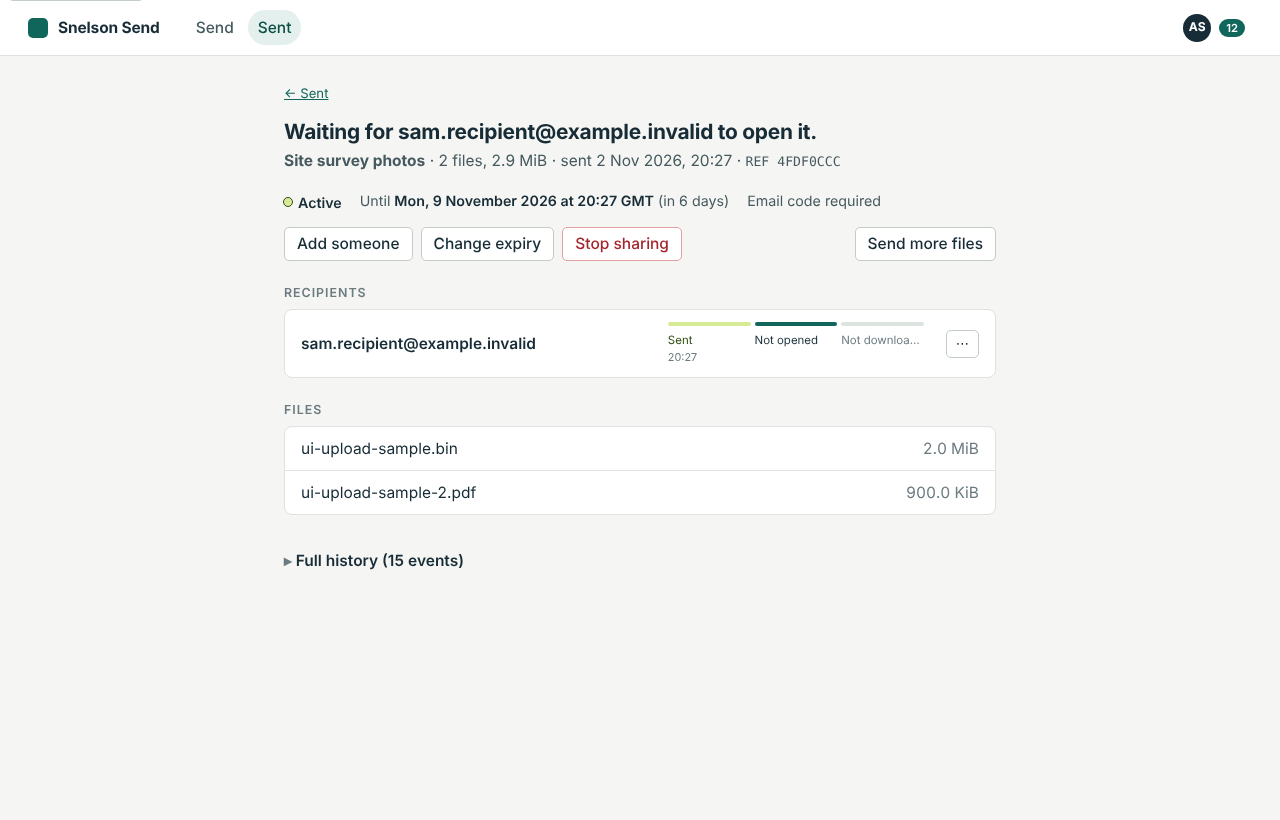
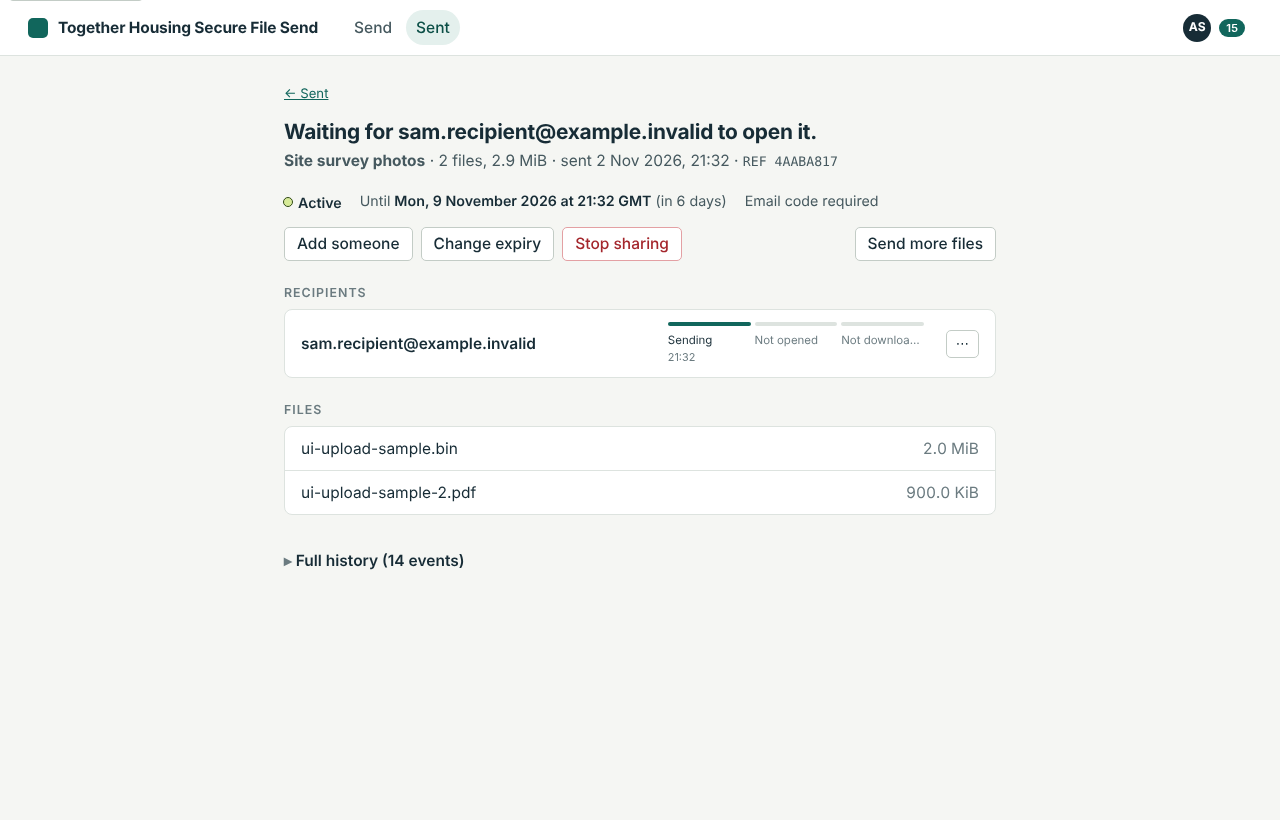
Brand as Together Housing Secure File Send by default
Product and organisation name defaults, page title, email From default, docs and
deployment comments. Long brand names truncate in the top strip on small screens.

Claude-Session: https://claude.ai/code/session_01Ktb1JASNB7QAetbqvrwUYB

diff --git a/packages/shared/src/policy.ts b/packages/shared/src/policy.ts
@@ -89,8 +89,8 @@ export const AuditPolicySchema = z.object({
 export type AuditPolicy = z.infer<typeof AuditPolicySchema>;
 
 export const BrandingSchema = z.object({
-  productName: z.string().min(1).max(60).default('Snelson Send'),
-  organisationName: z.string().min(1).max(120).default('Snelsonserver Ltd'),
+  productName: z.string().min(1).max(60).default('Together Housing Secure File Send'),
+  organisationName: z.string().min(1).max(120).default('Together Housing'),
   supportEmail: z.string().email().nullable().default(null),
   supportUrl: z.string().url().nullable().default(null),
   accentColour: z

diff --git a/apps/web/src/components/Shell.tsx b/apps/web/src/components/Shell.tsx
@@ -25,7 +25,7 @@ export function Shell({ width = 'narrow' }: { width?: 'narrow' | 'wide' }) {
       <header className="strip">
         <NavLink to={canSend ? '/' : '/activity'} className="strip-brand">
           {options?.logoDataUrl ? <img src={options.logoDataUrl} alt="" /> : <span className="mark" aria-hidden="true" />}
-          <span>{options?.productName ?? 'Snelson Send'}</span>
+          <span>{options?.productName ?? 'Together Housing Secure File Send'}</span>
         </NavLink>
         <nav className="strip-nav" aria-label="Main">
           {canSend && <NavLink to="/" end>Send</NavLink>}

diff --git a/apps/api/src/config.ts b/apps/api/src/config.ts
@@ -21,7 +21,7 @@ const schema = z.object({
   /** Must match clamd.conf StreamMaxLength / MaxFileSize. Files above this are reported as not scanned. */
   CLAMD_MAX_STREAM_BYTES: z.coerce.number().int().default(4 * 1024 * 1024 * 1024 - 1),
   SMTP_URL: z.string().optional(),
-  SMTP_FROM: z.string().default('Snelson Send <send@localhost>'),
+  SMTP_FROM: z.string().default('Together Housing Secure File Send <send@localhost>'),
   MAIL_TRANSPORT: z.enum(['smtp', 'file', 'memory']).default('smtp'),
   MAIL_FILE_DIR: z.string().optional(),
   TRUST_PROXY: bool.default(false),

diff --git a/apps/web/src/pages/Login.tsx b/apps/web/src/pages/Login.tsx
@@ -24,7 +24,7 @@ export function AuthFrame({ children, title }: { children: React.ReactNode; titl
       <div className="auth-card">
         <div className="auth-brand">
           {options?.logoDataUrl ? <img src={options.logoDataUrl} alt="" /> : <span className="mark" aria-hidden="true" />}
-          <span>{options?.productName ?? 'Snelson Send'}</span>
+          <span>{options?.productName ?? 'Together Housing Secure File Send'}</span>
         </div>
         {title && <h1>{title}</h1>}
         {children}

diff --git a/apps/web/index.html b/apps/web/index.html
@@ -5,7 +5,7 @@
     <meta name="viewport" content="width=device-width, initial-scale=1" />
     <meta name="referrer" content="no-referrer" />
     <meta name="color-scheme" content="light" />
-    <title>Snelson Send</title>
+    <title>Together Housing Secure File Send</title>
     <link rel="icon" href="/favicon.svg" type="image/svg+xml" />
   </head>
   <body>

diff --git a/apps/web/src/styles/global.css b/apps/web/src/styles/global.css
@@ -1624,6 +1624,12 @@ dialog.dialog::backdrop {
   .strip-nav .lbl-long {
     display: none;
   }
+  .strip-brand span {
+    max-width: 38vw;
+    white-space: nowrap;
+    overflow: hidden;
+    text-overflow: ellipsis;
+  }
   .content {
     padding: 16px 14px 48px;
   }

diff --git a/docs/ENTRA-SETUP.md b/docs/ENTRA-SETUP.md
@@ -1,17 +1,17 @@
 # Microsoft Entra ID (OpenID Connect) setup
 
-Snelson Send uses the authorisation-code flow with PKCE, `state` and `nonce`, via `openid-client`
+Together Housing Secure File Send uses the authorisation-code flow with PKCE, `state` and `nonce`, via `openid-client`
 (`apps/api/src/auth/oidc.ts`). Issuer, audience (client id), tenant and allow lists are checked explicitly
 on every login in `validateClaims()`. Nothing is granted on the basis of an email domain.
 
 ## 1. App registration
 1. Entra admin centre → App registrations → **New registration**.
-   * Name: Snelson Send. Supported account types: **this organisational directory only** (single tenant).
+   * Name: Together Housing Secure File Send. Supported account types: **this organisational directory only** (single tenant).
    * Redirect URI (Web): `https://<PUBLIC_HOST>/api/auth/sso/callback` — must match `PUBLIC_URL` exactly.
 2. Certificates & secrets → **New client secret**. Copy the value now; it is only shown once. Set a reminder for its expiry.
 3. Token configuration → **Add groups claim** → Security groups → for ID tokens emit **Group ID**.
    Overage caveat: if a user is in more than 200 groups (150 for SAML) Entra omits the `groups` claim and
-   sets `_claim_names`/`_claim_sources` instead. Snelson Send does **not** follow the Graph overage link;
+   sets `_claim_names`/`_claim_sources` instead. Together Housing Secure File Send does **not** follow the Graph overage link;
    such users will be rejected as "not in the allow list" unless they are listed by object id, or you
    restrict the claim to "groups assigned to the application" (Enterprise application → Users and groups,
    then choose that option in Token configuration).
@@ -21,15 +21,15 @@ on every login in `validateClaims()`. Nothing is granted on the basis of an emai
 
 ## 2. Conditional Access (MFA)
 The application cannot prove that MFA happened unless the IdP says so. Create a Conditional Access policy
-targeting the Snelson Send enterprise application that **requires multifactor authentication** (or an
-authentication strength) for all assigned users. Then in Snelson Send → Administration → Identity &
+targeting the Together Housing Secure File Send enterprise application that **requires multifactor authentication** (or an
+authentication strength) for all assigned users. Then in Together Housing Secure File Send → Administration → Identity &
 access enable **Require `amr` to contain `mfa`** so logins whose ID token does not report MFA are
 rejected. Note: `amr` reporting depends on the IdP and the method; if your tenant uses phishing-resistant
 methods that report differently, verify the claim content in a test login before enabling the check.
 `acr_values` can be set if your tenant uses authentication context; otherwise leave it blank and rely on
 Conditional Access.
 
-## 3. Configure Snelson Send
+## 3. Configure Together Housing Secure File Send
 Administration → Identity & access (requires recent strong authentication and a reason; the change is audited):
 
 | Field | Value |

diff --git a/README.md b/README.md
@@ -1,11 +1,11 @@
-# Snelson Send
+# Together Housing Secure File Send
 
-Self-hosted, single-organisation large-file dispatch for Snelsonserver Ltd. Staff upload files,
+Self-hosted, single-organisation large-file dispatch for Together Housing. Staff upload files,
 address them to named recipients, and send invitations; recipients prove control of their mailbox
 with a one-time code before downloading. Content lives only on your server, is quarantined and
 scanned before release, and is verifiably deleted at expiry.
 
-"Snelson Send" is a configurable working name (Administration → Branding).
+The product name, organisation name, logo and accent colour are configurable in Administration → Branding; the defaults are "Together Housing Secure File Send" / "Together Housing".
 
 | | |
 |---|---|

diff --git a/docs/ARCHITECTURE.md b/docs/ARCHITECTURE.md
@@ -1,7 +1,7 @@
-# Snelson Send – architecture
+# Together Housing Secure File Send – architecture
 
-Working name: **Snelson Send** (configurable in Branding settings). Single-organisation,
-self-hosted large-file dispatch application for Snelsonserver Ltd.
+Product name: **Together Housing Secure File Send** (configurable in Branding settings). Single-organisation,
+self-hosted large-file dispatch application for Together Housing.
 
 ## 1. Stack and tradeoffs
 

diff --git a/docs/PRIVACY-DECISIONS.md b/docs/PRIVACY-DECISIONS.md
@@ -1,6 +1,6 @@
 # Privacy and data-protection decisions still required
 
-The application provides controls; it does not make Snelsonserver Ltd compliant with UK GDPR by itself.
+The application provides controls; it does not make Together Housing compliant with UK GDPR by itself.
 Decisions an accountable person must take and record:
 
 1. **Lawful basis and purpose** for processing recipient email addresses, sender identities, filenames and

diff --git a/docs/INSTALL.md b/docs/INSTALL.md
@@ -1,6 +1,6 @@
 # Installation (Ubuntu 24.04 or 26.04 LTS, single host)
 
-This installs Snelson Send with Docker Compose: Caddy (TLS), API, worker, PostgreSQL 16 and an
+This installs Together Housing Secure File Send with Docker Compose: Caddy (TLS), API, worker, PostgreSQL 16 and an
 isolated ClamAV container. Only ports 80/443 are published. Expect downtime during upgrades; this
 is a deliberate single-host design (docs/OPERATIONS.md).
 
